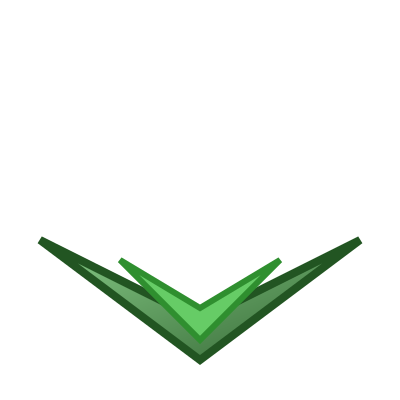
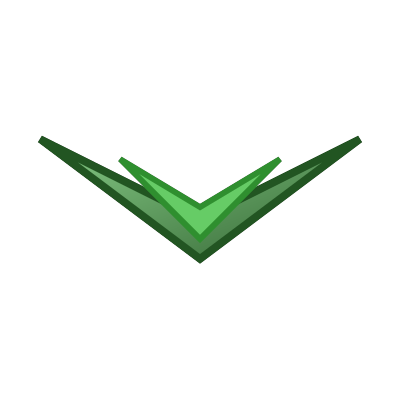
FIX: [/public/assets, /contest, /contest-standing, /contest-problemset] UI Change: Background color, rank centering

Changed region(s): [[0.09, 0.57, 0.9, 0.93], [0.09, 0.33, 0.9, 0.66]]

diff --git a/src/app/contest-standing/ContestStandingPage.tsx b/src/app/contest-standing/ContestStandingPage.tsx
@@ -318,9 +318,9 @@ export default function ContestStandingPage() {
 
 
   return (
-    <main className="min-h-screen flex bg-gray-900">
+    <main className="min-h-screen flex">
       {/* Sidebar */}
-      <aside className="w-40 bg-gray-800 p-4 flex flex-col">
+      <aside className="w-40 p-4 flex flex-col"  style={{ backgroundColor: '#353535' }}>
         <h2 className="text-lg font-bold mb-4">Contest</h2>
         <Link href={`/contest?id=${contestId}`} className={styles.cpButton} prefetch={false}>Info</Link>
           {currUser?.current_contest_id !== 0 && (timeStart <= now) && (now <= timeEnd) && (
@@ -360,7 +360,7 @@ export default function ContestStandingPage() {
               Rated only
             </button>
           </div>
-          <table className="w-full border-collapse text-xs table-auto text-center align-middle bg-gray-800">
+          <table className="w-full border-collapse text-xs table-auto text-center align-middle" style={{ backgroundColor: '#2a2a2a' }}>
             <thead className="bg-gray-700 text-white">
               <tr className={styles.cspTable}>
                 <th className={"px-4 py-2 text-center border"}>Rank</th>
@@ -417,11 +417,11 @@ export default function ContestStandingPage() {
                           {<Image
                             src={getEloIcon(getDisplayedElo(eloMap[s.user_id] ?? 1500, s.contest_count ?? 0))}
                             alt={getEloClass(getDisplayedElo(eloMap[s.user_id] ?? 1500, s.contest_count ?? 0))}  
-                            width='20'
-                            height='20'
-                            className='mr-1'
+                            width='30'
+                            height='30'
+                            className='mr-1 filter saturate-150'
                           />}
-                          {s.user_id}
+                          <div className="text-lg drop-shadow-[0_5px_15px_rgba(0,0,0,0.5)] filter saturate-150">{s.user_id}</div>
                         </Link>
                       </td>
                     </>

diff --git a/src/app/chat/page.tsx b/src/app/chat/page.tsx
@@ -103,7 +103,7 @@ export default function ChatPage() {
         {messages.map((msg, i) => (
           <span
             key={msg.id}
-            className={`flex items-center mg-2 px-2 py-0.5 rounded ${
+            className={`flex items-start flex-wrap min-w-0 gap-x-1 mg-2 px-2 py-0.5 rounded ${
               msg.user === username
                 ? i % 2 === 0 ? "bg-green-900/50" : "bg-green-900/55"
                 : i % 2 === 0 ? "bg-white/3" : "bg-transparent"
@@ -114,10 +114,10 @@ export default function ChatPage() {
               alt={`${getEloClass(msg.elo ?? 0)}`}
               width={24}
               height={24}
-              className="mb-2"
+              className="mr-1"
            ></Image> 
             <strong className={`${getEloClass(msg.elo ?? 0)}`}>{msg.user}{':'}</strong>
-            <p className="ml-1 mr-1">{msg.text}</p>
+            <p className="ml-1 mr-1 break-words min-w-0 flex-1">{msg.text}</p>
             <span className="flex text-xs text-gray-400 ml-2 mt-1 font-bold">
               {' '}({new Date(new Date(msg.time).getTime() + 7 * 60 * 60 * 1000).toLocaleString()})
             </span>

diff --git a/src/app/contest/ContestPage.tsx b/src/app/contest/ContestPage.tsx
@@ -195,7 +195,7 @@ export default function ContestPage() {
     <main className="h-screen flex flex-col"> 
 
       <div className="flex flex-1">
-        <aside className="w-40 bg-gray-800 p-4 flex flex-col">
+        <aside className="w-40 p-4 flex flex-col" style={{ backgroundColor: '#353535' }}>
           <h2 className="text-lg font-bold mb-4">Contest</h2>
           <Link href={`/contest?id=${contest.id}`} className={styles.cpButton} prefetch={false}>Info</Link>
           {currUser?.current_contest_id !== 0 && (timeStart <= now) && (now <= timeEnd) && (
@@ -208,7 +208,7 @@ export default function ContestPage() {
 
         
 
-          <section className="flex-1 p-8 overflow-y-auto bg-gray-900">
+          <section className="flex-1 p-8 overflow-y-auto">
             <AnimatedContent
               distance={50}
               direction="vertical"

diff --git a/src/app/contest-problemset/page.tsx b/src/app/contest-problemset/page.tsx
@@ -188,8 +188,8 @@ export default function ContestProblemset() {
 
 
   return (
-    <main className="flex min-h-screen bg-gray-900" style={{margin: 0}}>
-        <aside className="w-40 bg-gray-800 p-4 flex flex-col mr-6">
+    <main className="flex min-h-screen" style={{margin: 0}}>
+        <aside className="w-40 p-4 flex flex-col mr-6" style={{ backgroundColor: '#353535' }}>
           <h2 className="text-lg font-bold mb-4">Contest</h2>
             <Link href={`/contest?id=${contestId}`} className={styles.cpButton} prefetch={false}>Info</Link>
             {currUser?.current_contest_id !== 0 && (timeStart <= now) && (now <= timeEnd) && (

diff --git a/public/assets/conv.py b/public/assets/conv.py
@@ -1,0 +1,154 @@
+#!/usr/bin/env python3
+"""
+center_images.py
+----------------
+Loads all images from an input folder, centers the visible content
+on a transparent canvas of the original image dimensions, and exports
+them with the same filename to an output folder.
+
+Usage:
+    python center_images.py <input_folder> <output_folder>
+
+Example:
+    python center_images.py ./images ./centered
+"""
+
+import sys
+import os
+from pathlib import Path
+from PIL import Image
+
+SUPPORTED_EXTENSIONS = {".png", ".jpg", ".jpeg", ".webp", ".gif", ".bmp", ".tiff"}
+
+
+def get_content_bbox(img: Image.Image) -> tuple[int, int, int, int] | None:
+    """
+    Returns the bounding box (left, top, right, bottom) of the non-transparent
+    content in the image. Works for RGBA (alpha channel) and RGB images.
+    Returns None if the image is completely transparent / empty.
+    """
+    if img.mode == "RGBA":
+        # Use alpha channel to find non-transparent pixels
+        alpha = img.split()[3]
+        bbox = alpha.getbbox()
+        return bbox
+    else:
+        # For non-RGBA images, convert to RGBA first to detect content
+        rgba = img.convert("RGBA")
+        alpha = rgba.split()[3]
+        bbox = alpha.getbbox()
+        if bbox:
+            return bbox
+        # Fallback: use the full image as bbox for opaque images
+        return (0, 0, img.width, img.height)
+
+
+def center_image(img: Image.Image) -> Image.Image:
+    """
+    Centers the visible content of the image on a transparent canvas
+    of the same original dimensions.
+    """
+    original_width, original_height = img.size
+
+    # Ensure we work in RGBA mode
+    if img.mode != "RGBA":
+        img = img.convert("RGBA")
+
+    bbox = get_content_bbox(img)
+
+    if bbox is None:
+        print("  ⚠ Image appears fully transparent — skipping centering.")
+        return img
+
+    left, top, right, bottom = bbox
+    content_width = right - left
+    content_height = bottom - top
+
+    # Crop out just the visible content
+    content = img.crop(bbox)
+
+    # Calculate position to paste content centered on the canvas
+    paste_x = (original_width - content_width) // 2
+    paste_y = (original_height - content_height) // 2
+
+    # Create a blank transparent canvas with the original dimensions
+    canvas = Image.new("RGBA", (original_width, original_height), (0, 0, 0, 0))
+    canvas.paste(content, (paste_x, paste_y), content)
+
+    return canvas
+
+
+def process_folder(input_folder: str, output_folder: str) -> None:
+    input_path = Path(input_folder)
+    output_path = Path(output_folder)
+
+    if not input_path.exists() or not input_path.is_dir():
+        print(f"❌ Input folder not found: {input_folder}")
+        sys.exit(1)
+
+    # Collect all supported image files
+    image_files = [
+        f for f in input_path.iterdir()
+        if f.is_file() and f.suffix.lower() in SUPPORTED_EXTENSIONS
+    ]
+
+    if not image_files:
+        print(f"⚠ No supported images found in: {input_folder}")
+        print(f"  Supported formats: {', '.join(SUPPORTED_EXTENSIONS)}")
+        return
+
+    # Create output folder if it doesn't exist
+    output_path.mkdir(parents=True, exist_ok=True)
+
+    print(f"📂 Input:  {input_path.resolve()}")
+    print(f"📂 Output: {output_path.resolve()}")
+    print(f"🖼  Found {len(image_files)} image(s)\n")
+
+    success = 0
+    failed = 0
+
+    for image_file in sorted(image_files):
+        print(f"  Processing: {image_file.name}")
+        try:
+            img = Image.open(image_file)
+            original_mode = img.mode
+            original_size = img.size
+
+            centered = center_image(img)
+
+            # Determine output format and extension
+            out_ext = image_file.suffix.lower()
+            out_filename = image_file.name
+
+            # PNG preserves transparency; for other formats convert back
+            if out_ext == ".png":
+                save_img = centered
+            elif out_ext in {".jpg", ".jpeg"}:
+                # JPEG doesn't support transparency — flatten onto white
+                background = Image.new("RGB", centered.size, (255, 255, 255))
+                background.paste(centered, mask=centered.split()[3])
+                save_img = background
+            else:
+                save_img = centered
+
+            out_path = output_path / out_filename
+            save_img.save(out_path)
+
+            print(f"  ✅ Saved  → {out_path.name}  "
+                  f"({original_size[0]}×{original_size[1]}, {original_mode})")
+            success += 1
+
+        except Exception as e:
+            print(f"  ❌ Failed: {image_file.name} — {e}")
+            failed += 1
+
+    print(f"\n✨ Done! {success} centered, {failed} failed.")
+
+
+if __name__ == "__main__":
+    if len(sys.argv) != 3:
+        print("Usage: python center_images.py <input_folder> <output_folder>")
+        print("Example: python center_images.py ./images ./centered")
+        sys.exit(1)
+
+    process_folder(sys.argv[1], sys.argv[2])
